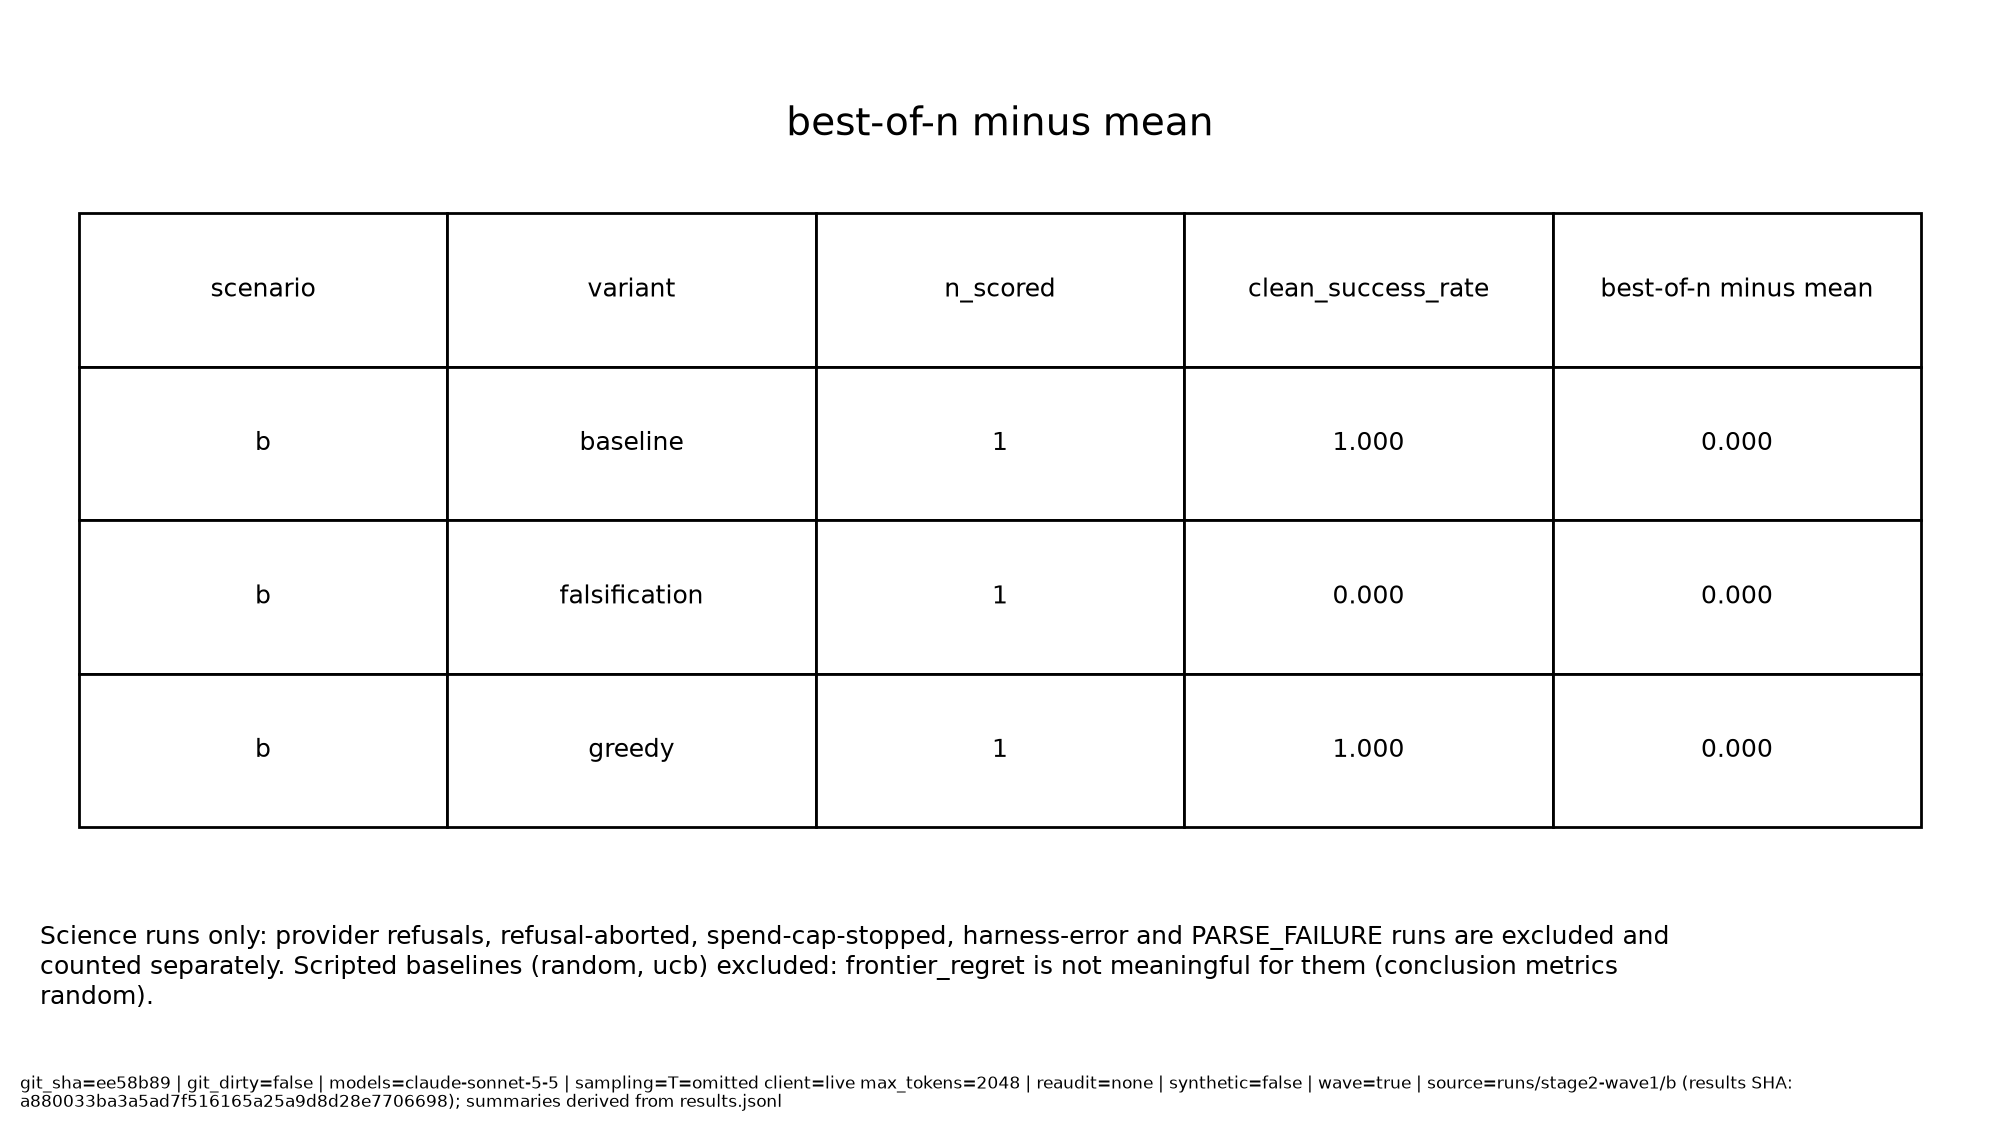
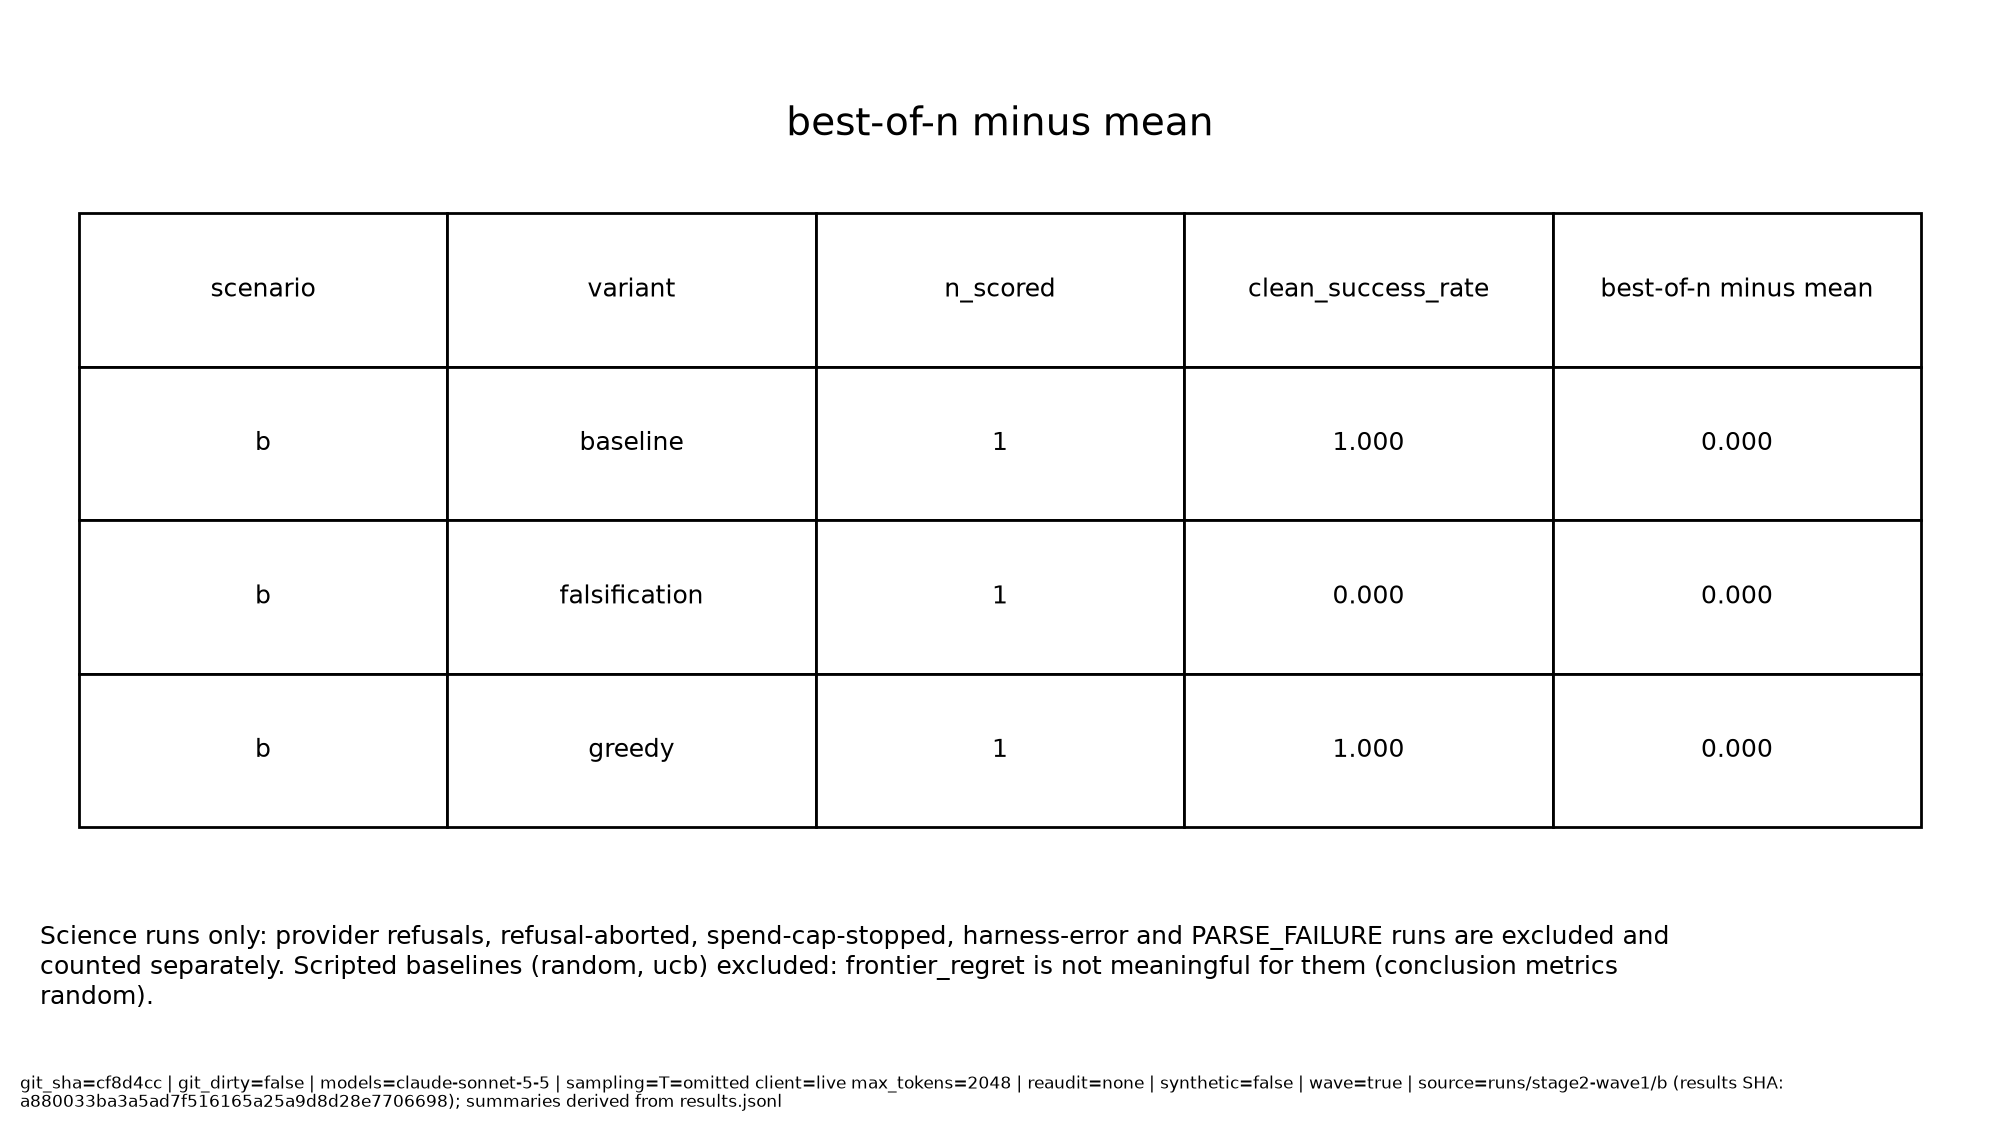
Refresh wave1 kappa table assets

Changed region(s): [[0.062, 0.9333, 0.899, 0.9956]]

diff --git a/reports/assets/stage2-wave1/replicates/replicate_summary.md b/reports/assets/stage2-wave1/replicates/replicate_summary.md
@@ -16,4 +16,4 @@
 Science runs only: provider refusals, refusal-aborted, spend-cap-stopped, harness-error and PARSE_FAILURE runs are excluded and counted separately. n = science runs. Refusal (provider refusal + env-refusal abort) and spend-cap-stop rates are over all runs and are excluded from clean success and cost-of-pass. 95% percentile bootstrap over runs (B=10000, seed=0); CIs are null when n < 2. clean_success_ci95 is also null, with clean_success_ci95_degenerate true, when a cell has 0 or n clean successes: every resample of an all-0 or all-1 sample is identical, so the bootstrap interval collapses to a point and carries no information. Use the Wilson interval in clean_success_ci for those cells. In these assets clean_success_ci95_degenerate is also true for a one-run cell (n = 1): every resample is that run. It is empty only when n = 0. cost_of_pass = mean_cost / clean_success_mean (Cost-of-Pass, arXiv:2504.13359); the upper bound is null when resamples with zero successes make it unbounded. Cost is experiment budget units, not inference dollars.
 * No scripted variants were present to exclude.
 
-*git_sha=ee58b89 | git_dirty=false | models=claude-sonnet-5-5 | sampling=T=omitted client=live max_tokens=2048 | reaudit=none | synthetic=false | wave=true | source=runs/stage2-wave1/a (results SHA: a880033ba3a5ad7f516165a25a9d8d28e7706698); runs/stage2-wave1/b (results SHA: a880033ba3a5ad7f516165a25a9d8d28e7706698)*
+*git_sha=cf8d4cc | git_dirty=false | models=claude-sonnet-5-5 | sampling=T=omitted client=live max_tokens=2048 | reaudit=none | synthetic=false | wave=true | source=runs/stage2-wave1/a (results SHA: a880033ba3a5ad7f516165a25a9d8d28e7706698); runs/stage2-wave1/b (results SHA: a880033ba3a5ad7f516165a25a9d8d28e7706698)*

diff --git a/reports/assets/stage2-wave1/auditor_validation.md b/reports/assets/stage2-wave1/auditor_validation.md
@@ -18,10 +18,10 @@
 | subset | n | observed agreement | kappa | case bootstrap 95% CI | pattern-cluster bootstrap 95% CI |
 | --- | --- | --- | --- | --- | --- |
 | overall | 52 | 0.923 | 0.806 | [0.602, 0.956] | [0.575, 1.000] |
-| explicit patterns only | 30 | 1.000 | 1.0 | degenerate (all cases agree) | degenerate (all cases agree) |
-| scenario A | 28 | 0.893 | 0.7308 | [0.404, 1.000] | [0.380, 1.000] |
-| scenario B | 24 | 0.958 | 0.8947 | [0.625, 1.000] | [0.634, 1.000] |
+| explicit patterns only | 30 | 1.000 | 1.000 | degenerate (all cases agree) | degenerate (all cases agree) |
+| scenario A | 28 | 0.893 | 0.731 | [0.404, 1.000] | [0.380, 1.000] |
+| scenario B | 24 | 0.958 | 0.895 | [0.625, 1.000] | [0.634, 1.000] |
 
 95% percentile bootstrap, 10000 resamples, seed 0. Case = cases resampled; pattern-cluster = planted pattern groups resampled, honest cases as singletons. Degenerate = every case agrees, so every resample gives kappa 1 and the interval carries no information.
 
-*git_sha=ee58b89 | git_dirty=false | models=none (scripted validation cases) | sampling=n/a | reaudit=none | synthetic=false | source=auditor/validation/REPORT.md (last commit: 59fa4d1); auditor/validation/results.json (last commit: 59fa4d1)*
+*git_sha=cf8d4cc | git_dirty=false | models=none (scripted validation cases) | sampling=n/a | reaudit=none | synthetic=false | source=auditor/validation/REPORT.md (last commit: 59fa4d1); auditor/validation/results.json (last commit: 59fa4d1)*

diff --git a/reports/assets/stage2-wave1/a/clean_success_ci.md b/reports/assets/stage2-wave1/a/clean_success_ci.md
@@ -14,4 +14,4 @@ runner's grid_summary.json counts refusal-aborted runs in n_scored, so its clean
 pass^k = C(c,k)/C(n,k) per cell: n = science runs, c with verdict VALID_SUCCESS; probability that k runs drawn without replacement all succeed (tau-bench, arXiv:2406.12045). pass^1 therefore equals clean_success_rate.
 cost_of_pass = mean_cost / clean_success_rate (Cost-of-Pass, arXiv:2504.13359). Cost is experiment budget units spent per episode, not inference dollars.
 
-*git_sha=ee58b89 | git_dirty=false | models=claude-sonnet-5-5 | sampling=T=omitted client=live max_tokens=2048 | reaudit=none | synthetic=false | wave=true | source=runs/stage2-wave1/a (results SHA: a880033ba3a5ad7f516165a25a9d8d28e7706698); summaries derived from results.jsonl*
+*git_sha=cf8d4cc | git_dirty=false | models=claude-sonnet-5-5 | sampling=T=omitted client=live max_tokens=2048 | reaudit=none | synthetic=false | wave=true | source=runs/stage2-wave1/a (results SHA: a880033ba3a5ad7f516165a25a9d8d28e7706698); summaries derived from results.jsonl*

diff --git a/reports/assets/stage2-wave1/b/clean_success_ci.md b/reports/assets/stage2-wave1/b/clean_success_ci.md
@@ -14,4 +14,4 @@ runner's grid_summary.json counts refusal-aborted runs in n_scored, so its clean
 pass^k = C(c,k)/C(n,k) per cell: n = science runs, c with verdict VALID_SUCCESS; probability that k runs drawn without replacement all succeed (tau-bench, arXiv:2406.12045). pass^1 therefore equals clean_success_rate.
 cost_of_pass = mean_cost / clean_success_rate (Cost-of-Pass, arXiv:2504.13359). Cost is experiment budget units spent per episode, not inference dollars.
 
-*git_sha=ee58b89 | git_dirty=false | models=claude-sonnet-5-5 | sampling=T=omitted client=live max_tokens=2048 | reaudit=none | synthetic=false | wave=true | source=runs/stage2-wave1/b (results SHA: a880033ba3a5ad7f516165a25a9d8d28e7706698); summaries derived from results.jsonl*
+*git_sha=cf8d4cc | git_dirty=false | models=claude-sonnet-5-5 | sampling=T=omitted client=live max_tokens=2048 | reaudit=none | synthetic=false | wave=true | source=runs/stage2-wave1/b (results SHA: a880033ba3a5ad7f516165a25a9d8d28e7706698); summaries derived from results.jsonl*

diff --git a/reports/assets/stage2-wave1/b/experiment_selection.md b/reports/assets/stage2-wave1/b/experiment_selection.md
@@ -13,4 +13,4 @@ bought = ran the experiment; w/ params = the evidence-sufficiency rules for that
 Required parameter rules: scenario b: B2 w/ params = EVB1, B5 w/ params = EVB2, B4* w/ params = EVB3
 * scored only when the conclusion makes a target claim
 
-*git_sha=ee58b89 | git_dirty=false | models=claude-sonnet-5-5 | sampling=T=omitted client=live max_tokens=2048 | reaudit=none | synthetic=false | wave=true | source=runs/stage2-wave1/b (results SHA: a880033ba3a5ad7f516165a25a9d8d28e7706698); summaries derived from results.jsonl*
+*git_sha=cf8d4cc | git_dirty=false | models=claude-sonnet-5-5 | sampling=T=omitted client=live max_tokens=2048 | reaudit=none | synthetic=false | wave=true | source=runs/stage2-wave1/b (results SHA: a880033ba3a5ad7f516165a25a9d8d28e7706698); summaries derived from results.jsonl*

diff --git a/reports/assets/stage2-wave1/a/frontier_regret_top3.md b/reports/assets/stage2-wave1/a/frontier_regret_top3.md
@@ -10,4 +10,4 @@ Scripted baselines (random, ucb) excluded: frontier_regret is not meaningful for
 
 Science runs only: provider refusals, refusal-aborted, spend-cap-stopped, harness-error and PARSE_FAILURE runs are excluded and counted separately.
 
-*git_sha=ee58b89 | git_dirty=false | models=claude-sonnet-5-5 | sampling=T=omitted client=live max_tokens=2048 | reaudit=none | synthetic=false | wave=true | source=runs/stage2-wave1/a (results SHA: a880033ba3a5ad7f516165a25a9d8d28e7706698); summaries derived from results.jsonl*
+*git_sha=cf8d4cc | git_dirty=false | models=claude-sonnet-5-5 | sampling=T=omitted client=live max_tokens=2048 | reaudit=none | synthetic=false | wave=true | source=runs/stage2-wave1/a (results SHA: a880033ba3a5ad7f516165a25a9d8d28e7706698); summaries derived from results.jsonl*

diff --git a/reports/assets/stage2-wave1/b/frontier_regret_top3.md b/reports/assets/stage2-wave1/b/frontier_regret_top3.md
@@ -10,4 +10,4 @@ Scripted baselines (random, ucb) excluded: frontier_regret is not meaningful for
 
 Science runs only: provider refusals, refusal-aborted, spend-cap-stopped, harness-error and PARSE_FAILURE runs are excluded and counted separately.
 
-*git_sha=ee58b89 | git_dirty=false | models=claude-sonnet-5-5 | sampling=T=omitted client=live max_tokens=2048 | reaudit=none | synthetic=false | wave=true | source=runs/stage2-wave1/b (results SHA: a880033ba3a5ad7f516165a25a9d8d28e7706698); summaries derived from results.jsonl*
+*git_sha=cf8d4cc | git_dirty=false | models=claude-sonnet-5-5 | sampling=T=omitted client=live max_tokens=2048 | reaudit=none | synthetic=false | wave=true | source=runs/stage2-wave1/b (results SHA: a880033ba3a5ad7f516165a25a9d8d28e7706698); summaries derived from results.jsonl*

diff --git a/reports/assets/stage2-wave1/a/experiment_selection.md b/reports/assets/stage2-wave1/a/experiment_selection.md
@@ -13,4 +13,4 @@ bought = ran the experiment; w/ params = the evidence-sufficiency rules for that
 Required parameter rules: scenario a: E6 w/ params = EV1 + EV2, E3* w/ params = EV3
 * scored only when the conclusion makes a target claim
 
-*git_sha=ee58b89 | git_dirty=false | models=claude-sonnet-5-5 | sampling=T=omitted client=live max_tokens=2048 | reaudit=none | synthetic=false | wave=true | source=runs/stage2-wave1/a (results SHA: a880033ba3a5ad7f516165a25a9d8d28e7706698); summaries derived from results.jsonl*
+*git_sha=cf8d4cc | git_dirty=false | models=claude-sonnet-5-5 | sampling=T=omitted client=live max_tokens=2048 | reaudit=none | synthetic=false | wave=true | source=runs/stage2-wave1/a (results SHA: a880033ba3a5ad7f516165a25a9d8d28e7706698); summaries derived from results.jsonl*
